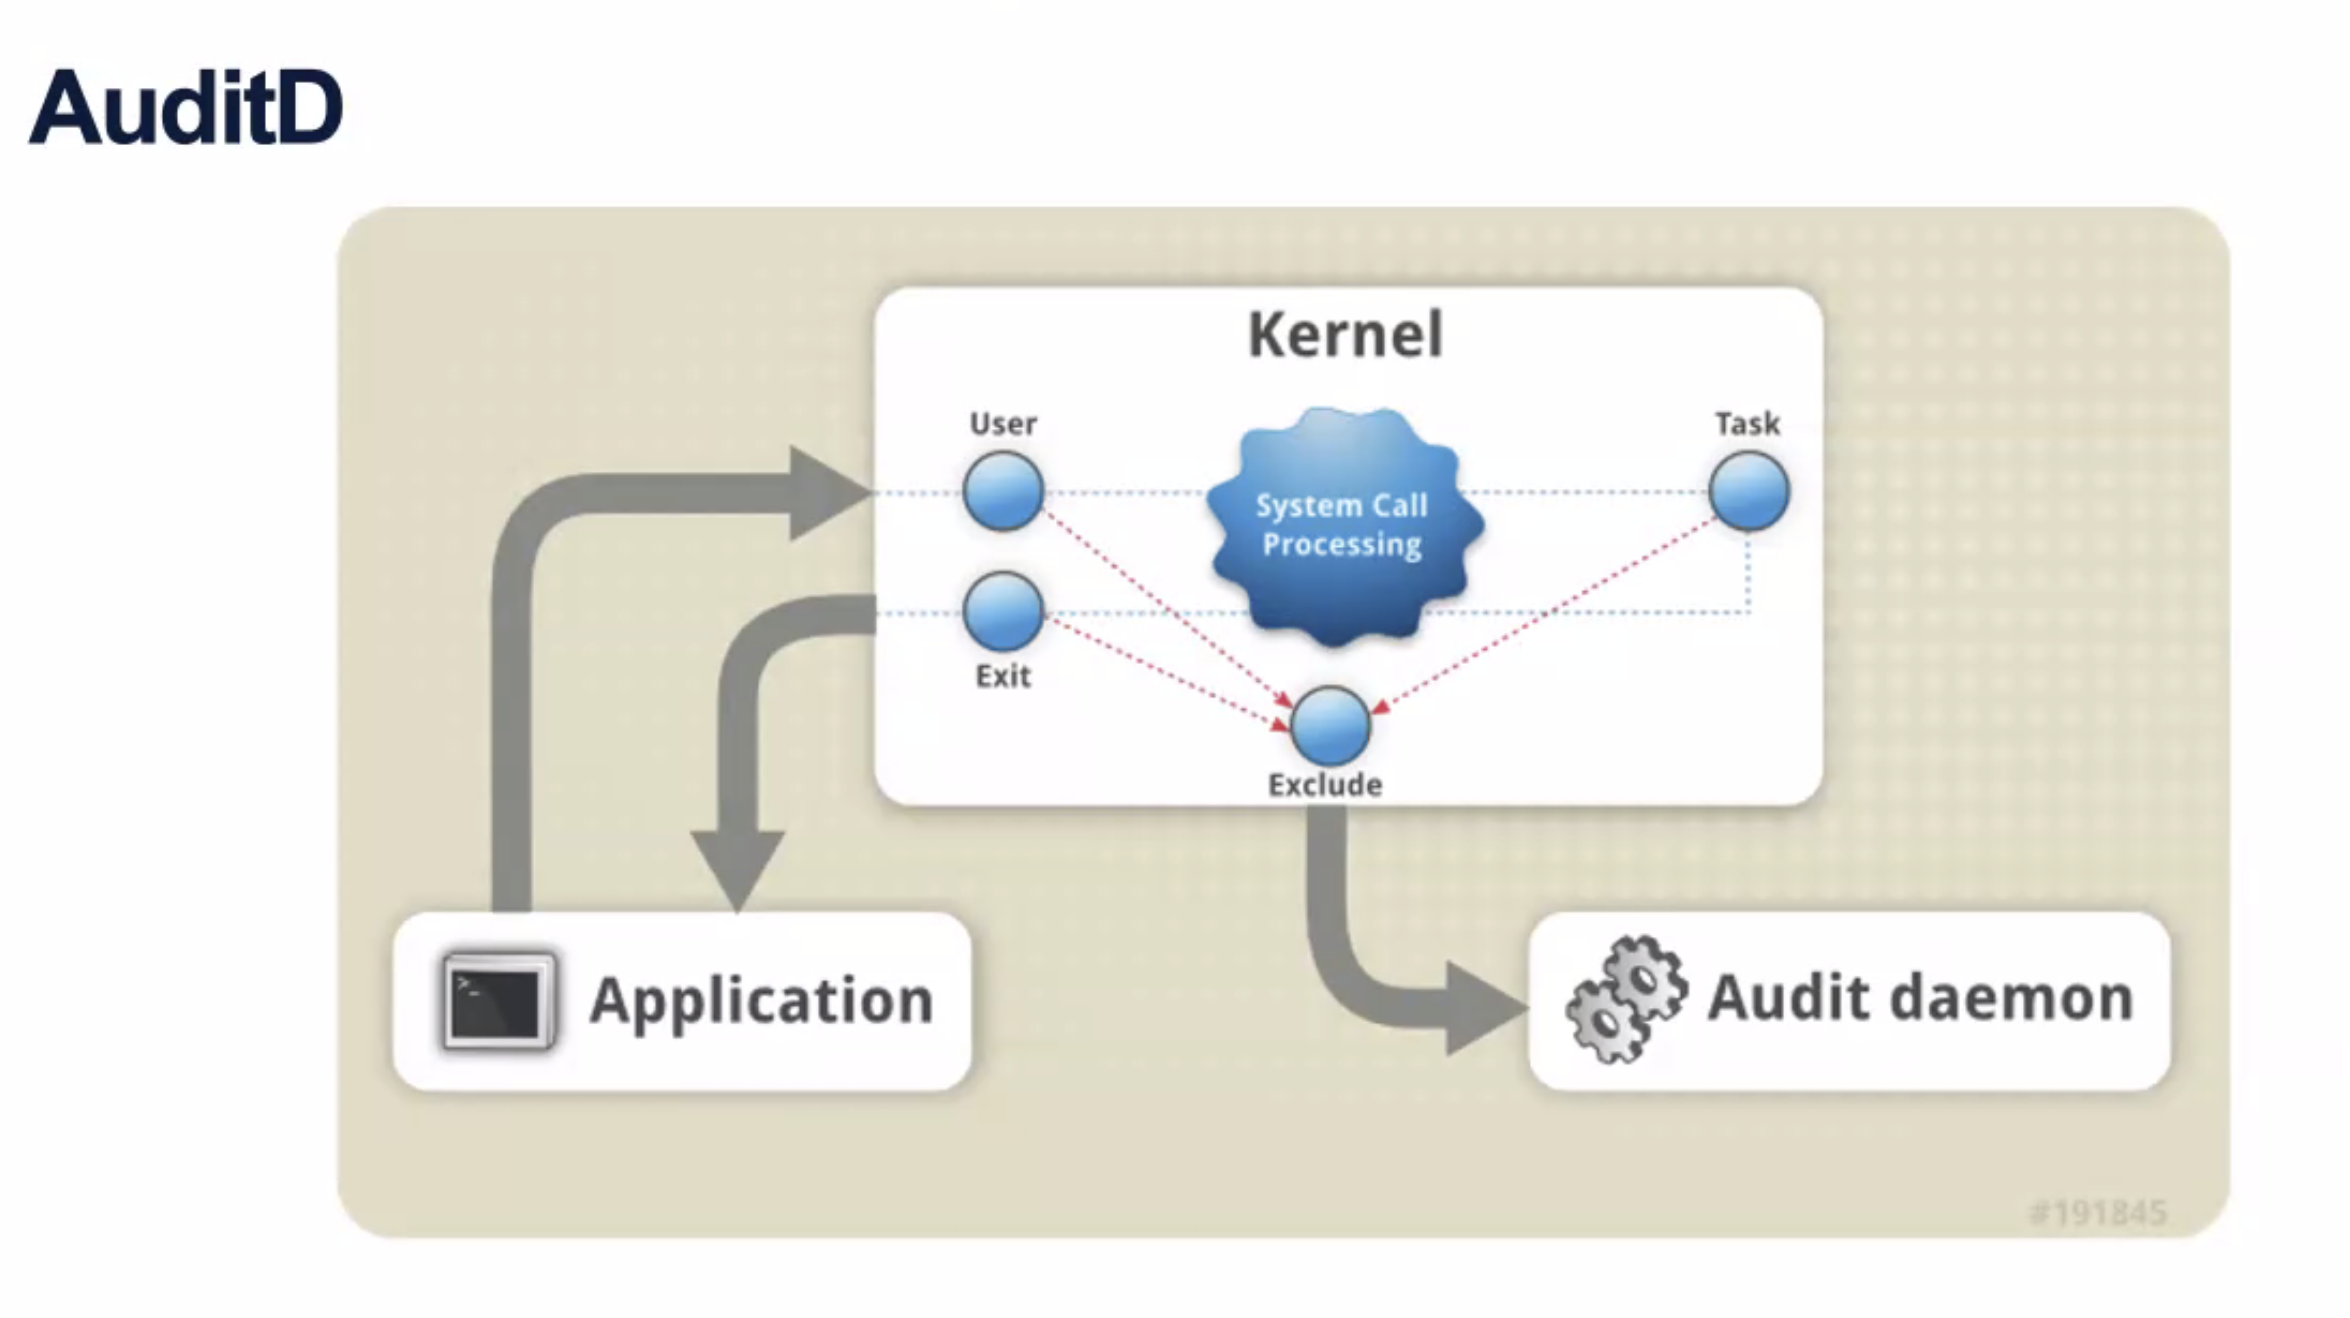
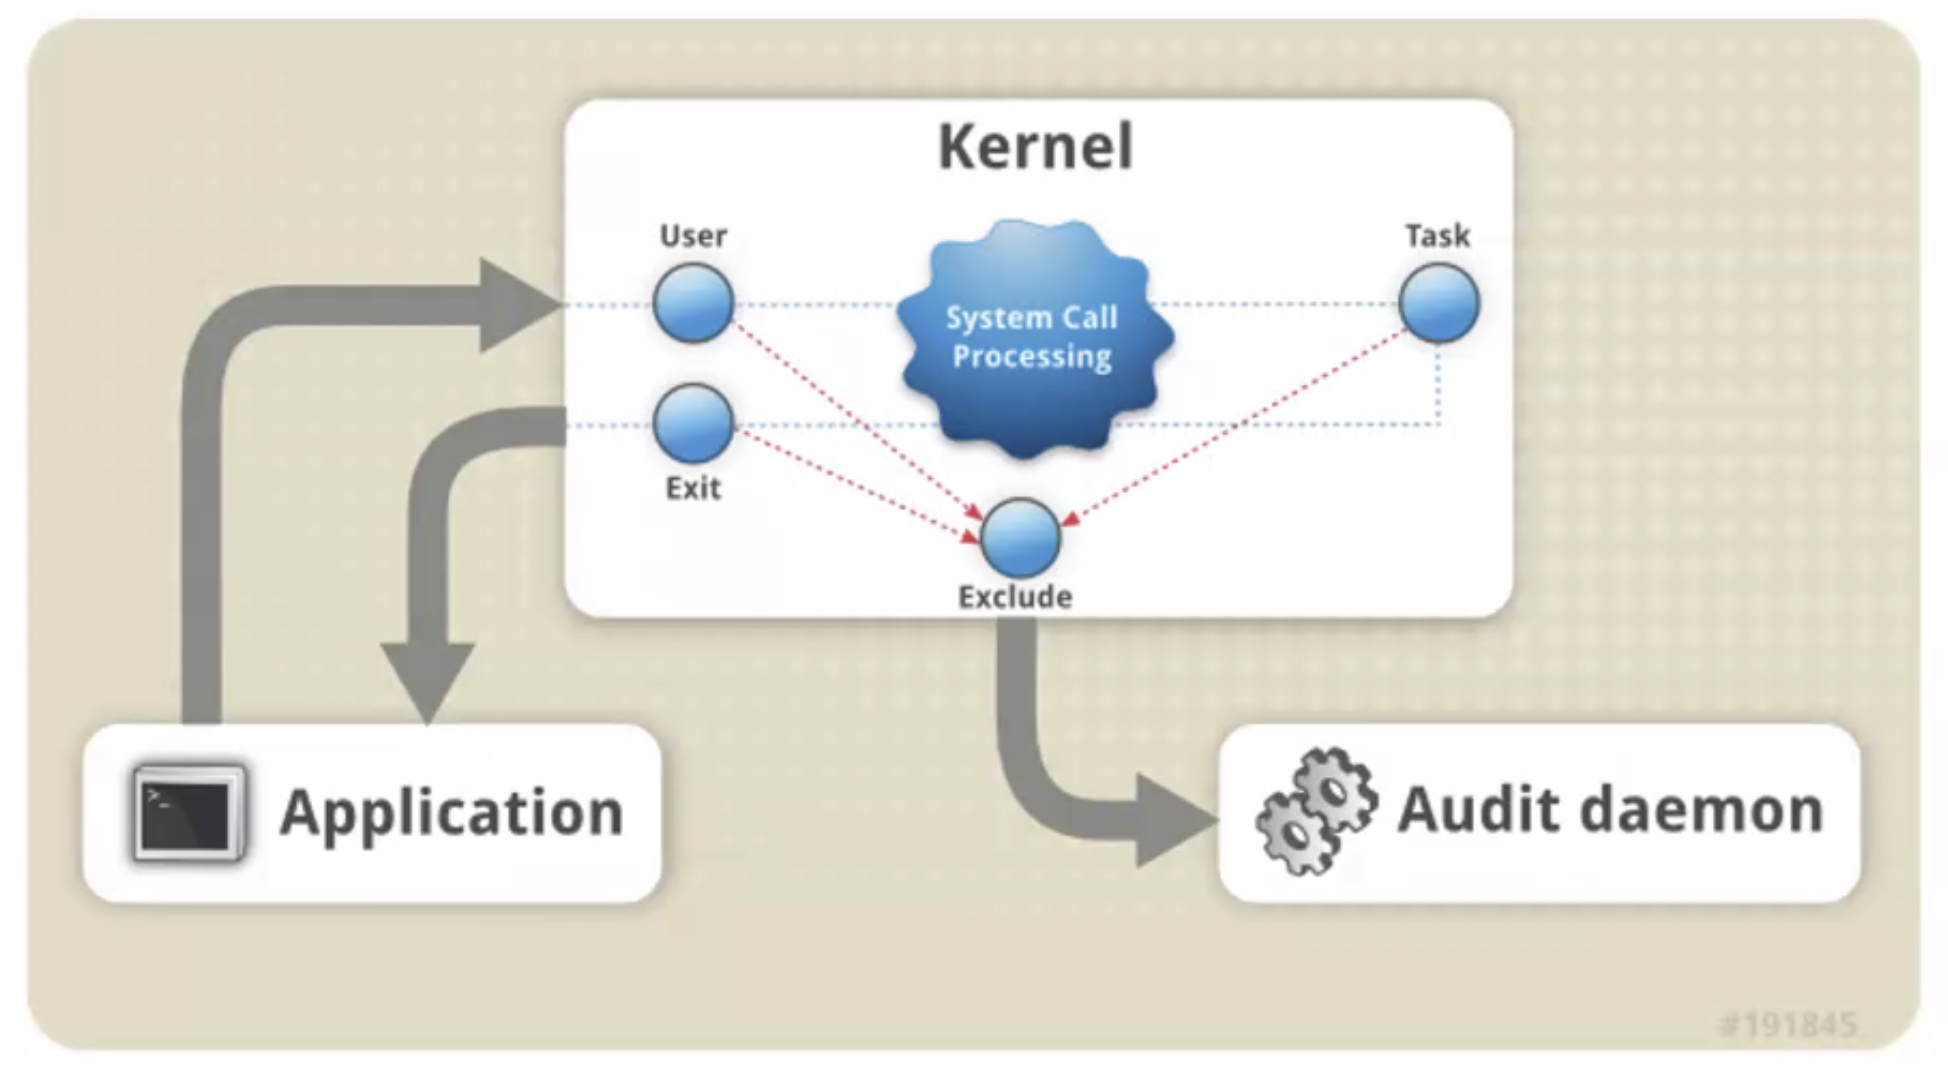
update colors, screenshots

diff --git a/slides.md b/slides.md
@@ -55,9 +55,9 @@ Speaker
 Works as SRE / DEV at F5 Czech Republic s.r.o. 
 (Volterra.io, Mirantis, IBM, ...)
 
-n(vi)m lover <mdi-circle-small/> maker <mdi-circle-small/> geek <mdi-circle-small/> quad fpv pilot
+n(vi)m lover <mdi-circle-small/> maker <mdi-circle-small/> golfer <mdi-circle-small/> quad fpv pilot
 
-<div style="color: deepskyblue">
+<div style="color: #00b4c8">
 
 - http://apealive.net/about_petr/
 - http://twitter.com/epcim
@@ -220,9 +220,9 @@ layout: fact
 # Falco
 May 16, 2016 - Sysdig introducing open source, behavioral security
 
-![](/images/falco-overview2.png)
+<img src="/images/falco-overview2.png" class="pl-40 h-50 center" />
 
-[Falco.org](https://falco.org) 'runtime security project detecting unexpected behavior, intrusions, and data theft in real time!
+[Falco.org](https://falco.org) runtime security project detecting unexpected behavior, intrusions, and data theft in real time!
 
 <!-- 
 Donated to CNCF
@@ -258,7 +258,7 @@ Falco
 
 *There are a million ways a burglar can break into your home, but once they do they’re going to steal your jewelry.*
 
-<div style="color: deepskyblue">
+<div style="color: #00b4c8">
 <br/>
 ...
 
@@ -278,19 +278,19 @@ Falco
 
 **File integrity monitoring**: (checksums)
 
-<div class="ml-10 center" style="color: deepskyblue">
+<div class="ml-10 center" style="color: #00b4c8">
 Watch for any OS activity that is writing to a file of interest, and be alerted in real-time.
 </div>
  
 **Network monitoring** (signatures)
 
-<div class="ml-10 center" style="color: deepskyblue">
+<div class="ml-10 center" style="color: #00b4c8">
 Falco see I/O “from the inside” with an immediate correlation between applications and traffic.
 </div>
  
 Linux has multiple security modules ~ advanced access control systems with sophisticated policies and concepts. As a result, understanding and configuring them is a rather complex undertaking.
 
-<div class="ml-10 center" style="color: deepskyblue">
+<div class="ml-10 center" style="color: #00b4c8">
 Falco is far simpler to understand and configure, "detection-only".
 </div>
 
@@ -398,7 +398,7 @@ Enhanced Telemetry Collection -> annotation
 - socket info
 
 Performance
-- lower resource impact (network, files, proceses)
+- lower resource impact (net, file, proc)
 - avoid transfer of all audit data to userspace
 - real time procesing
 
@@ -491,7 +491,7 @@ Rules
 
 <style>
 code {
-  color: violet;
+  color: blueviolet;
 };
 blockquote {
   code {
@@ -559,7 +559,7 @@ Rules
 # Filesystem integrity
 Rules
 
-```lua {1|3|all}
+```lua {1|3|5|all}
 - rule: Detect Write Below /etc/hosts
   desc: an attempt to write to /etc/hosts file (CVE-2020-8557)
   condition: open_write and container and fd.name=/etc/hosts
@@ -605,7 +605,7 @@ Rules
 # Compromised server process
 Rules
 
-SQL injection attack?
+HitchSQL injection attack?
 ```lua
 condition: spawn_process and proc.name = mysqld and not proc_is_new
 ```
@@ -657,7 +657,7 @@ rules/
 - macro: `sre|host|infra_authz_activities`
 - macro: `sre|aws|gcp_known_vendoractions`
 - macro: `sre_known_ports`
-- list: `sre|aws|gcp_known_commands` (vendor executed)
+- list: `sre|aws|gcp_known_commands`
 - list: ....
 
 
@@ -742,23 +742,36 @@ Dalsi integrace - with more lower priority -> short term search
 ---
 
 # Dashboards and alerting
+
+<img src="/images/webui_01-b.png" class="m-0 fit" />
+
+<!--
 Falcosidekick-ui >0.5.3, rewritten month ago
-
-<img src="/images/webui_01.png" class="m-0 fit center" />
-
+-->
 ---
 
 # Dashboards and alerting
+
+<img src="/images/webui_03-s.png" class="m-0 fit center" />
+
+<!--
 Events
-
-<img src="/images/webui_03.png" class="m-0 fit center" />
-
+-->
 ---
 
-# Dashboards and alerting
-Custom Grafana dashboards
+# Falco Audit in Grafana
 
-FIXME, ves audit dashboard .. SSH tracking? DOCs
+<img src="/images/grafana-audit-view-s.png" class="m-0 fit center" />
+
+<!--
+Custom dasshboards
+-->
+---
+
+# Elasticsearch
+Record detail
+
+<img src="/images/es-event-detail-1.png" class="m-0 fit center" />
 
 ---
 layout: two-cols
@@ -914,6 +927,17 @@ The resulting abstraction encodes a graph structure that enables provenance reas
   K8s open-source tool providing a multi-cloud K8s single pane of glass, including risk analysis, security compliance, RBAC visualizer and image vulnerabilities scanning
 
 ---
+layout: end
+---
+
+---
+
+# Backup slides
+Falco architectural overview
+
+![](/images/falco-architectural-overview.png)
+
+--- 
 
 # Backup slides
 eBPF network observability
@@ -927,19 +951,19 @@ eBPF network observability
 -->
 
 ---
-# Backup slides
-eBPF Roadmap
-
-![](/screenshots/ebpf-12.png)
-
----
 layout: center
+---
+# Backup slides
+SysFlow.io integration to sidekick
+
+<img src="/images/sysflow-falco-sidekick-ui.png" class="h-100 center" />
+
 ---
 
 # Backup slides
 AuditD comparison
 
-![](/screenshots/ebpf-03.png)
+<img src="/screenshots/ebpf-03.png" class="h-80 center" />
 
 ---
 
@@ -966,36 +990,27 @@ Inbound ssh rule
 # Backup slides
 K8s audit -> plugin
 
-* removed K8S audit logs from Falco [#1952] (https://github.com/falcosecurity/falco/pull/1952)
-* now under plugins: https://github.com/falcosecurity/plugins/tree/master/plugins/k8saudit
+* Removed K8S audit logs from Falco [#1952] (https://github.com/falcosecurity/falco/pull/1952)
+* Now under plugins: https://github.com/falcosecurity/plugins
 
 
 ```lua
-
 - rule: Attach/Exec Pod
-  desc: >
-    Detect any attempt to attach/exec to a pod
-  condition: kevt_started and pod_subresource and kcreate and ka.target.subresource in (exec,attach) and not user_known_exec_pod_activities
-  output: Attach/Exec to pod (user=%ka.user.name pod=%ka.target.name ns=%ka.target.namespace action=%ka.target.subresource command=%ka.uri.param[command])
-  priority: NOTICE
-  source: k8s_audit
-  tags: [k8s]
-
+  desc: Detect any attempt to attach/exec to a pod
+  condition: |
+    kevt_started and pod_subresource and kcreate and ka.target.subresource in (exec,attach)
+    and not user_known_exec_pod_activities
 ```
 
 ```lua
-
-  - list: falco_hostpid_images
+- list: falco_hostpid_images
   items: []
 
 - rule: Create HostPid Pod
   desc: Detect an attempt to start a pod using the host pid namespace.
-  condition: kevt and pod and kcreate and ka.req.pod.host_pid intersects (true) and not ka.req.pod.containers.image.repository in (falco_hostpid_images)
-  output: Pod started using host pid namespace (user=%ka.user.name pod=%ka.resp.name ns=%ka.target.namespace images=%ka.req.pod.containers.image)
-  priority: WARNING
-  source: k8s_audit
-  tags: [k8s]
-
+  condition: |
+    kevt and pod and kcreate and ka.req.pod.host_pid intersects (true)
+    and not ka.req.pod.containers.image.repository in (falco_hostpid_images)
 ```
 
 ---
@@ -1018,22 +1033,4 @@ https://github.com/falcosecurity/falco/tree/master/rules
 
     - list: traefik_allowed_inbound_ports_tcp
       items: [443, 80, 8080]
-
-    - rule: Unexpected inbound tcp connection traefik
-      desc: Detect inbound traffic to traefik using tcp on a port outside of expected set
-      condition: inbound and evt.rawres >= 0 and not fd.sport in (traefik_allowed_inbound_ports_tcp) and app_traefik
-      output: Inbound network connection to traefik on unexpected port (command=%proc.cmdline pid=%proc.pid connection=%fd.name sport=%fd.sport user=%user.name %container.info image=%container.image)
-      priority: NOTICE
-
-    # Restricting spawned processes to selected set
-
-    - list: traefik_allowed_processes
-      items: ["traefik"]
-
-    - rule: Unexpected spawned process traefik
-      desc: Detect a process started in a traefik container outside of an expected set
-      condition: spawned_process and not proc.name in (traefik_allowed_processes) and app_traefik
-      output: Unexpected process spawned in traefik container (command=%proc.cmdline pid=%proc.pid user=%user.name %container.info image=%container.image)
-      priority: NOTICE
-
 ```
